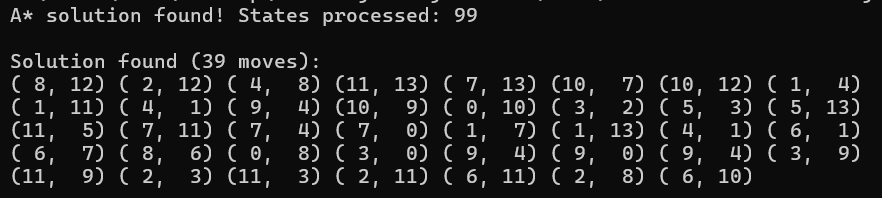
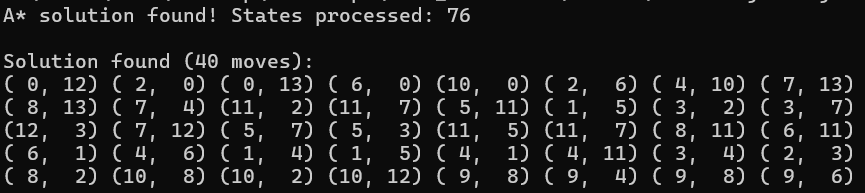
input data from image

diff --git a/task-1/bottles/src/main/java/org/dock/Main.java b/task-1/bottles/src/main/java/org/dock/Main.java
@@ -13,18 +13,20 @@ public class Main {
     public static void main(String[] args) {
         // from image
         String[][] input = {
-                {"02", "10", "04", "04"},
-                {"01", "08", "12", "08"},
-                {"10", "07", "05", "09"},
-                {"05", "03", "02", "05"},
-                {"06", "11", "08", "07"},
-                {"12", "12", "01", "02"},
-                {"04", "07", "08", "11"},
-                {"10", "11", "03", "01"},
-                {"10", "07", "09", "09"},
-                {"06", "02", "06", "11"},
-                {"04", "06", "09", "03"},
-                {"05", "03", "12", "01"},
+                // from left to right.
+                // from bottom to top
+                {"04", "04", "10", "02"},
+                {"08", "12", "08", "01"},
+                {"09", "05", "07", "10"},
+                {"05", "02", "03", "05"},
+                {"07", "08", "11", "06"},
+                {"02", "01", "12", "12"},
+                {"11", "08", "07", "04"},
+                {"01", "03", "11", "10"},
+                {"09", "09", "07", "10"},
+                {"11", "06", "02", "06"},
+                {"03", "09", "06", "04"},
+                {"01", "12", "03", "05"},
                 {"_", "_", "_", "_"},
                 {"_", "_", "_", "_"}
         };
